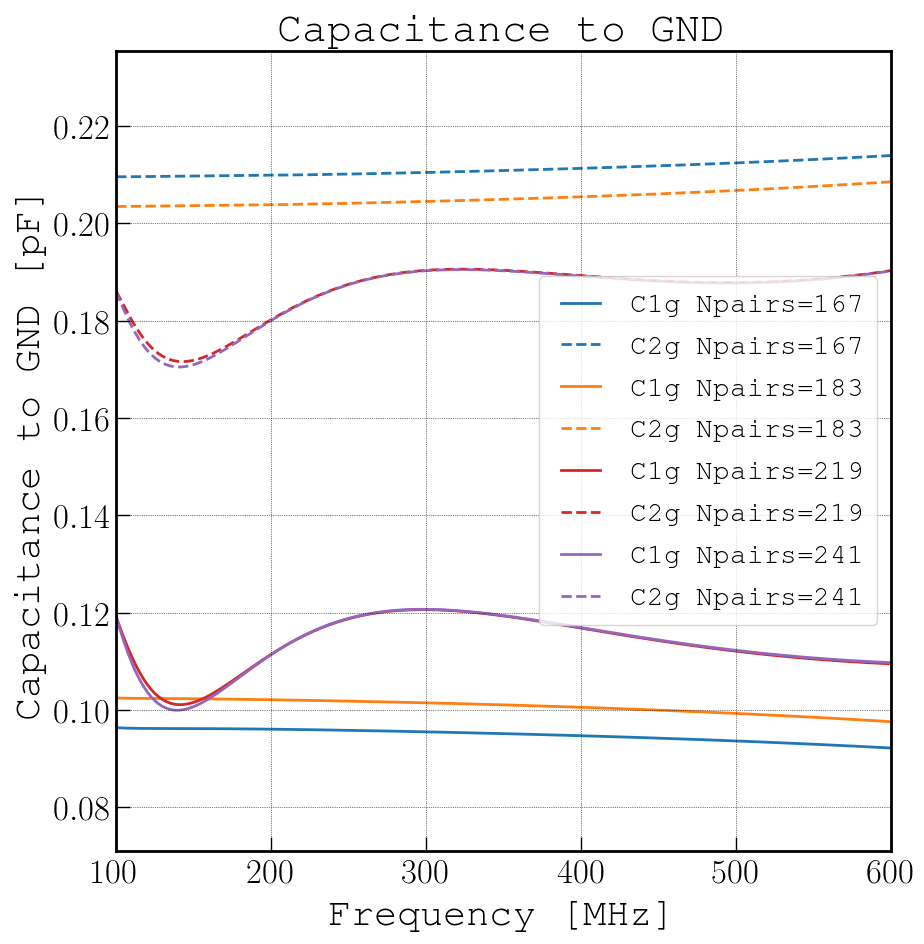
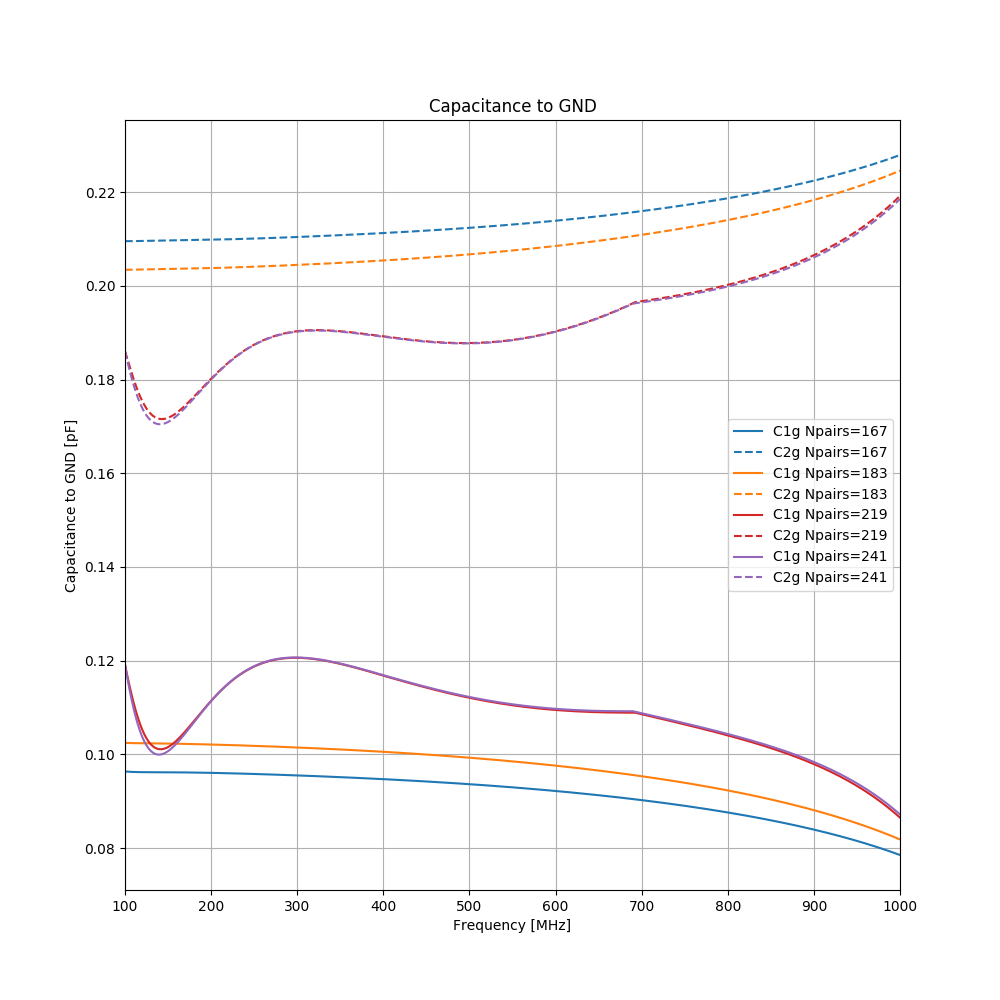
producing expected Qc plots

diff --git a/code/parasitic_capacitance.py b/code/parasitic_capacitance.py
@@ -7,12 +7,13 @@ matplotlib.use('TkAgg')
 import matplotlib.pyplot as plt
 import os
 import sys
-sys.path.append('/home/wanduialbert/Desktop/research_stuff/resobolo/masks/code')
+# sys.path.append('/home/wanduialbert/Desktop/research_stuff/resobolo/masks/code')
+sys.path.append('/Users/albertwandui/Documents/Grad School Research/resobolo/masks/code')
 from capacitors import IDC
 import glob
 from scipy.constants import epsilon_0
 
-datadir = '/home/wanduialbert/Desktop/research_stuff/resobolo/numerical_sims/'
+datadir = '/Users/albertwandui/Documents/Grad School Research/resobolo/numerical_sims/'
 
 nH = 1e-9
 MHz = 1e6
@@ -136,11 +137,11 @@ if __name__=="__main__":
     #ax2.plot(f, model_C2gnd_o, color=colors[N], ls="-.",\
     #    label="overestimate")
     set_axproperties(ax, "Frequency [MHz]", "Capacitance [pF]",\
-        "Capacitance btn ports 1 and 2", [100,600])
+        "Capacitance btn ports 1 and 2", [100,1000])
     set_axproperties(ax2, "Frequency [MHz]", "Capacitance to GND [pF]",\
-        "Capacitance to GND", [100,600])
+        "Capacitance to GND", [100,1000])
     set_axproperties(ax3, "Frequency [MHz]", "Cp1/Cp2",\
-        "Ratio of Capacitance to Ground", [100,600])
+        "Ratio of Capacitance to Ground", [100,1000])
     #ax.set_ylim(0,20)
     #ax2.set_yscale('log')
     plt.figure(1)
@@ -151,6 +152,7 @@ if __name__=="__main__":
     plt.figure(3)
     plt.savefig("CapRatio_to_GND.png")
     if showPlots: plt.show()
+    plt.close()
 
     freqs = np.array(freqs)
     C12s = np.array(C12s)
@@ -160,8 +162,29 @@ if __name__=="__main__":
     #
     L = 12*nH
     Z0 = 50 # Ohms
-    fr_expected = 1/2/pi/(L*C12s[:, 50]*pF)**0.5/MHz
+    # fr_expected = 1/2/pi/(L*C12s[:, 50]*pF)**0.5/MHz
     fr_meas = np.array([277.638, 294.601, 310.120, 323.85, 335.85])[::-1]
 
-    print (fr_expected)
-    print (fr_meas)
+    # Estimates of Qc as a function of frequency
+    l_cc = 162
+    cc_cap = IDC(1.0)
+    cc_cap.set_dimensions(w,g,75,2,l_cc/(w+g))
+    Cc = cc_cap.capacitance()/pF
+
+    wr = (2*pi*fr_meas*MHz)[:, np.newaxis]
+    Zb = 1/(1j*wr*C2gs*pF) + 1/((1j*wr*C1gs*pF) + 1/(Z0/2 + 1/(1j*wr*Cc*pF)))
+    E_stored = 0.5*C12s*pF
+    P_diss = 0.5*Zb.real/np.abs(Zb)**2
+    Qc_expected = wr * E_stored/P_diss
+    Qc_measured = np.array([72925., 85417., 106397., 126574., 155298.])
+
+    fig, ax = plt.subplots(num=4, figsize=(10,10))
+    for i in range(N):
+        if i==2: continue
+        ax.plot(freqs[i], Qc_expected[i,:], color=colors[i], label="Npairs={0:d}".format(npairs[i]))
+        ax.hlines(Qc_measured[i], freqs[i][0], freqs[i][-1], color=colors[i], linestyles='dashed')
+
+    set_axproperties(ax, "Frequency [MHz]", "Qc",\
+    "Coupling Capacitance vs Frequency", [100,1000])
+    plt.savefig('Qc_simulated.png')
+    plt.show()
